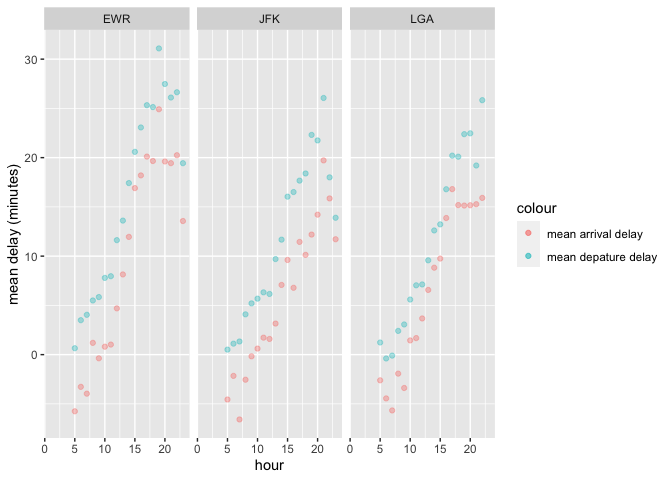
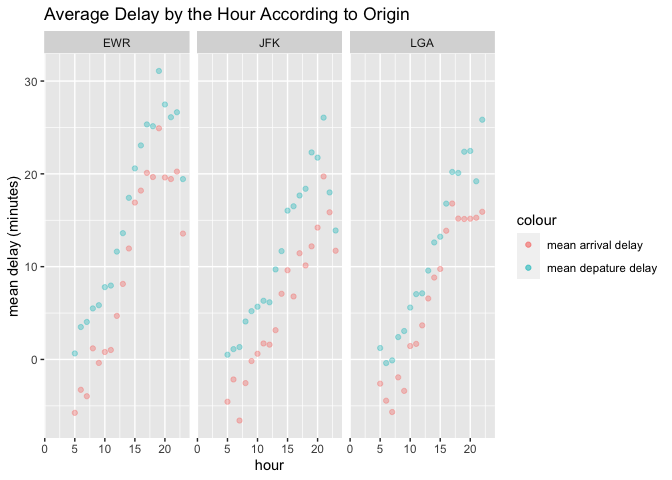
Updated HW Week 4.

diff --git a/README.md b/README.md
@@ -11,7 +11,36 @@ Based on `flights` data set, we can look to see what flights have longer
 delay times by the time of day. This shows that the hours in which delay
 times are the longest are typically in the evening hours. The longer
 delay times for flights at such hours can depend on a number of factors,
-but some patterns that arise a
+but some patterns that arise are from the origin, the time of year
+(month), and the airline carrier. It can be seen that most patterns show
+how delay time tends to go up during the evening and late hours of
+intended departure time, especially between 3:00 and 8:00 pm, trailing
+down just a little bit after 8:00 pm.
+
+Overall, at each origin airport, the delay time trends upward as the
+time of day increases. The majority of the average delay times do tend
+to stay under 20 minutes, which is not exceptionally long, with the
+exception of EWR though, which tends to have even longer delays in the
+afternoon and evening hours of the day than the other airports.
+
+Sorting the data by month can give indications about what the weather is
+like according to season or if it is a time of the year with holidays.
+Delay times in the late and evening hours of warmer months and seasons
+like spring and summer, and especially June and July, are much higher
+than in other months, which can be attributed to more flights and travel
+can occur. Another spike in evening and late delays can be seen in
+December, which can attributed to more traveling with the holidays, but
+with poorer weather conditions, as well. Winter months might show lower
+delay times though because there are more of these flights being
+canceled due to inclement weather. Most hours of the day though, again,
+tend to stay under 20 minutes, with the exception of some evening hours.
+
+Regarding the airline carrier, the delay times for airlines that have a
+small number of flights, may have much longer delay times for any
+particular hour, such as with OO and YV. There are some higher delay
+times in evening hours, such as EV, FL, UA, or WN, do trend a little bit
+higher, but the majority of the day at each airline stays under 20-25
+minutes, but trending upwards again towards the later hours.
 
 ## Pattern 1: Origin
 
@@ -38,15 +67,15 @@ library(ggplot2)
 
 by_origin = flights %>% 
   group_by(hour, origin) %>% 
-  summarise(count = n(),
-            mean_dep_delay = mean(dep_delay, na.rm = TRUE),
+  summarise(mean_dep_delay = mean(dep_delay, na.rm = TRUE),
             mean_arr_delay = mean(arr_delay, na.rm = TRUE)) %>% 
   ggplot(aes(x = hour)) +
            geom_point(aes(y=(mean_dep_delay), color= "mean depature delay"), alpha =0.35)  + 
            geom_point(aes(y=(mean_arr_delay),  color="mean arrival delay"), alpha =0.35) +
+           ggtitle("Average Delay by the Hour According to Origin") +
            xlab('hour') +
            ylab('mean delay (minutes)') + 
-          facet_wrap(~origin)
+           facet_wrap(~origin)
 ```
 
     ## `summarise()` has grouped output by 'hour'. You can override using the `.groups` argument.
@@ -73,6 +102,7 @@ by_month = flights %>%
   ggplot(aes(x = hour)) +
            geom_point(aes(y=(mean_dep_delay), color= "mean depature delay"), alpha =0.35)  + 
            geom_point(aes(y=(mean_arr_delay),  color="mean arrival delay"), alpha =0.35) +
+           ggtitle("Average Delay by the Hour According to the Month") +
            xlab('hour') +
            ylab('mean delay (minutes)') + 
           facet_wrap(~month)
@@ -97,13 +127,13 @@ by_month
 
 
 by_carrier = flights %>% 
-  filter(!(arr_delay > 120)) %>% 
   group_by(hour, carrier) %>% 
   summarise(mean_dep_delay = mean(dep_delay, na.rm = TRUE),
             mean_arr_delay = mean(arr_delay, na.rm = TRUE)) %>% 
   ggplot(aes(x = hour)) +
            geom_point(aes(y=(mean_dep_delay), color= "mean depature delay"), alpha =0.35)  + 
            geom_point(aes(y=(mean_arr_delay),  color="mean arrival delay"), alpha =0.35) +
+           ggtitle("Average Delay by the Hour According to Airline Carrier") +
            xlab('hour') +
            ylab('mean delay (minutes)') +
            facet_wrap(~carrier)
@@ -114,5 +144,9 @@ by_carrier = flights %>%
 ``` r
 by_carrier
 ```
+
+    ## Warning: Removed 1 rows containing missing values (geom_point).
+    
+    ## Warning: Removed 1 rows containing missing values (geom_point).
 
 ![](README_files/figure-gfm/Pattern%203:%20Airline%20Carrier-1.png)<!-- -->
